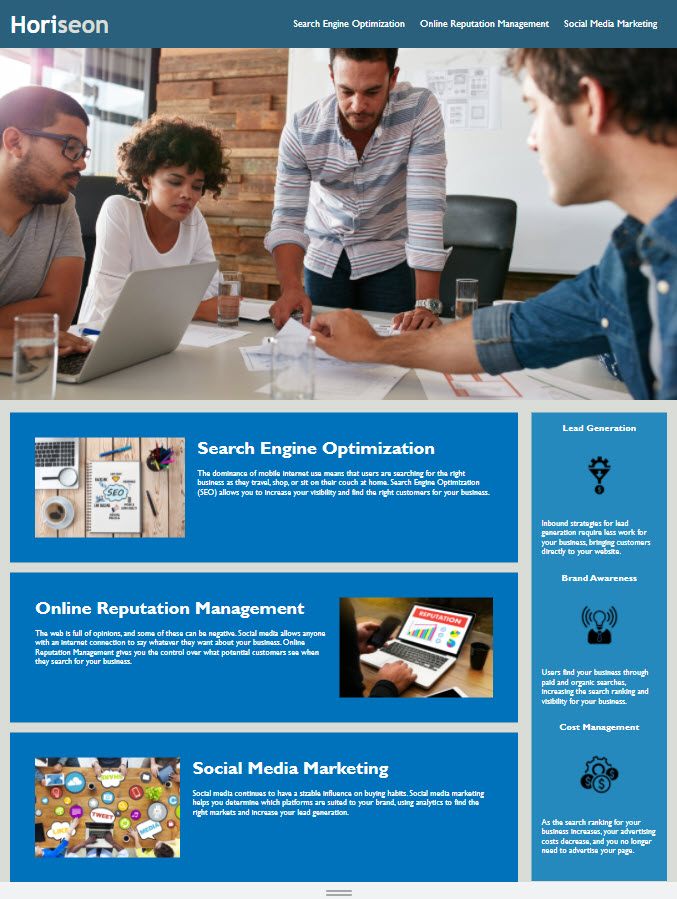
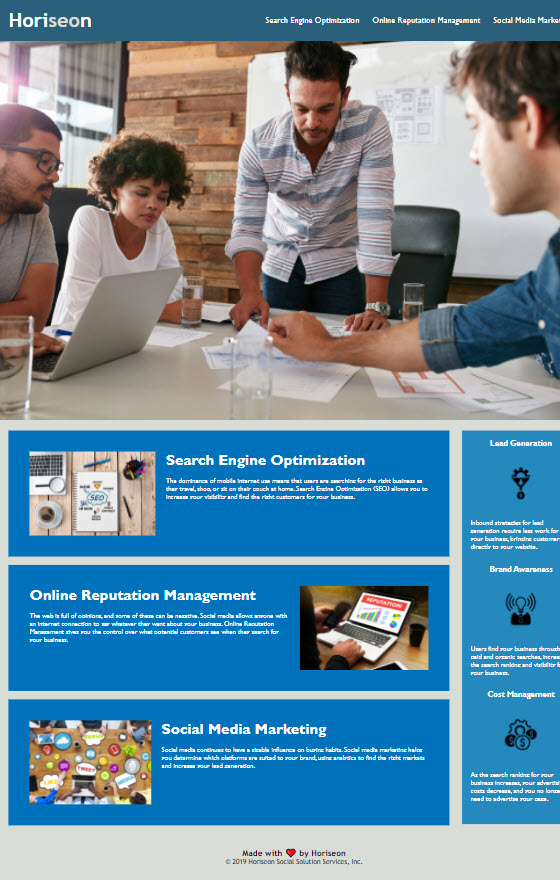
Updated style sheet background size to 1000 height and updated reference image in asset folder that the readme links to

diff --git a/assets/css/style.css b/assets/css/style.css
@@ -58,7 +58,7 @@ header nav ul li {
 /* Body formatting */
 
 .hero {
-    height: 800px;
+    height: 1000px;
     width: 100%;
     margin-bottom: 25px;
     background-image: url("../images/digital-marketing-meeting.jpg");
